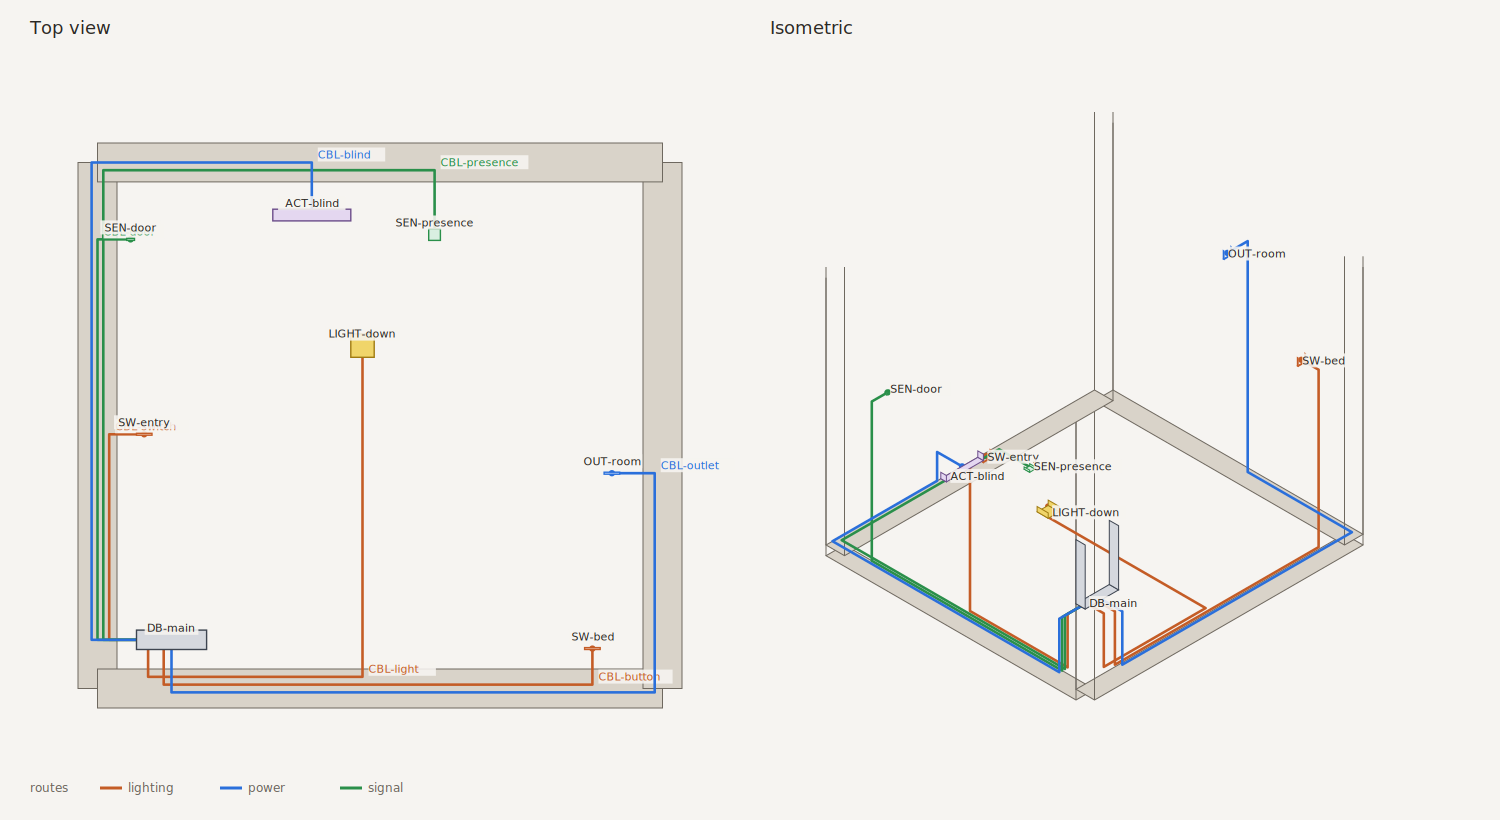
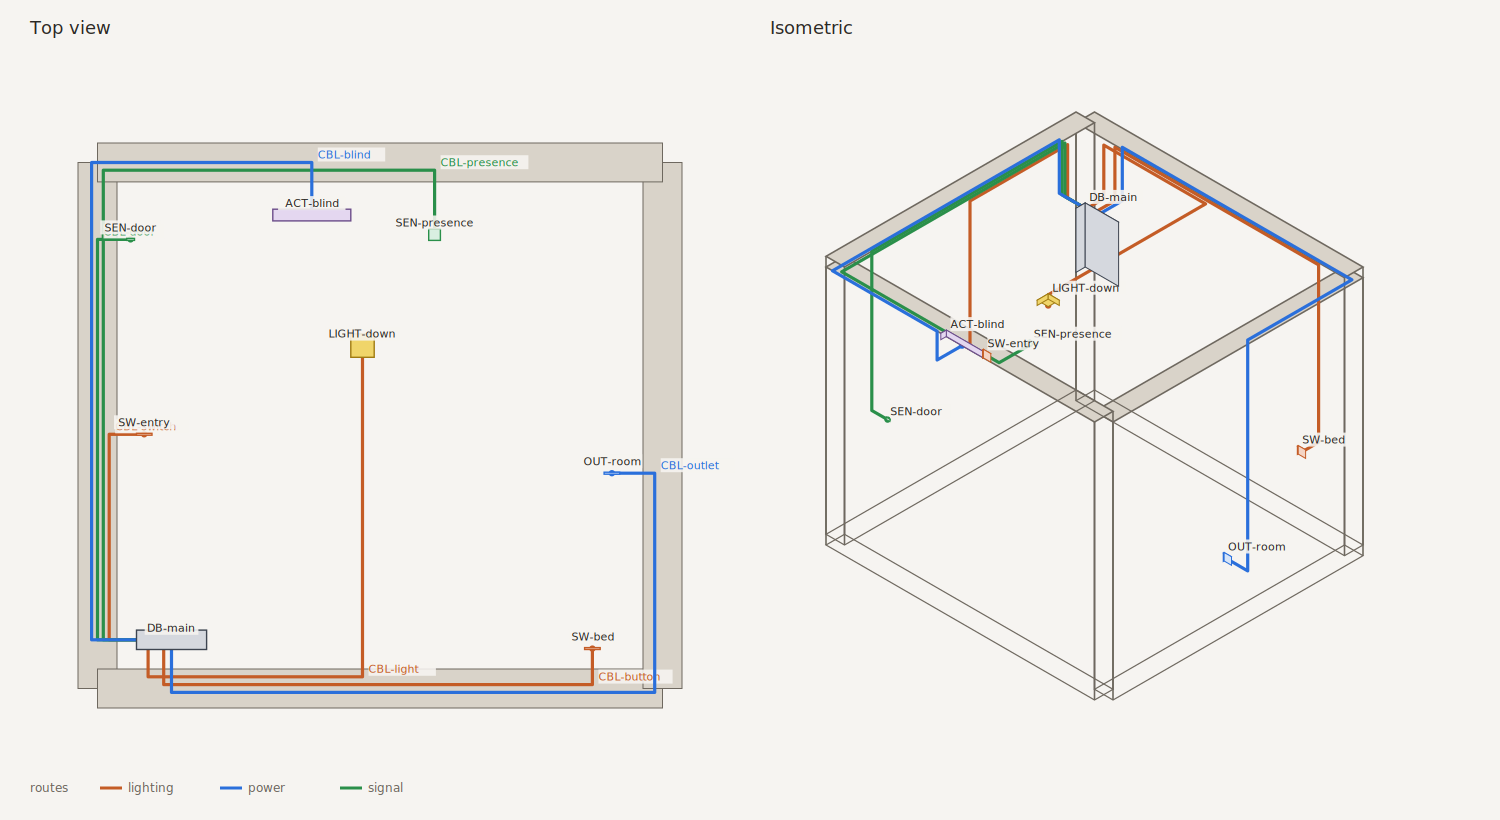
Draw the electrical isometric with height upward.
The projection subtracted z and then flipped the page, so wall heads and the 2.5 m cable runs sat on the floor. z is added, and each wall is extruded from the floor to its head.

diff --git a/tools/render_electrical.py b/tools/render_electrical.py
@@ -1,9 +1,11 @@
 #!/usr/bin/env python3
 """Draw devices and cable routes from a yaml-ifc electrical file.
 
-Two views in one PNG: the storey plan, and an isometric. Walls are the
-centreline band. A device is the box from Origin, Width, Depth, and
-Elevation. A cable Route is a polyline in that same frame, metres.
+Two views in one PNG: the storey plan, and an isometric. The plan draws
+each wall as a centreline band. The isometric extrudes that footprint
+from the floor to Height, with z up. A device is the box from Origin,
+Width, Depth, and Elevation. A cable Route is a polyline in that same
+frame, metres.
 Needs libcairo2 and tools/requirements.txt (cairosvg).
 """
 
@@ -89,7 +91,12 @@ def device_box(item):
 
 
 def iso(x, y, z):
-    return (x - y) * 0.8660254037844386, (x + y) * 0.5 - z
+    """Plan x to the right, plan y to the left, z up.
+
+    ``_fit`` treats the second axis as up and flips it into SVG. z is added
+    so a higher Elevation lands higher on the page.
+    """
+    return (x - y) * 0.8660254037844386, z - (x + y) * 0.5
 
 
 class Canvas:
@@ -213,8 +220,8 @@ def render_document(doc):
     panel_title(right, 34, "Isometric")
 
     def draw_walls(project, isometric):
-        for corners, wall_height, _wall_id in walls:
-            if not isometric:
+        if not isometric:
+            for corners, _wall_height, _wall_id in walls:
                 canvas.el(
                     "polygon",
                     points=_points(project(*corner) for corner in corners),
@@ -222,17 +229,21 @@ def render_document(doc):
                     stroke=WALL_EDGE,
                     **{"stroke-width": "1"},
                 )
-                continue
-            base = [project(*iso(x, y, 0)) for x, y in corners]
-            cap = [project(*iso(x, y, wall_height)) for x, y in corners]
+            return
+        # Wireframe extrusion: base at z=0, head at Height, vertical corners.
+        # Filled side faces cover the room and hide the routes.
+        ordered = sorted(walls, key=lambda row: sum(x + y for x, y in row[0]) / len(row[0]), reverse=True)
+        for corners, wall_height, _wall_id in ordered:
+            base = [project(*iso(x, y, 0.0)) for x, y in corners]
+            top = [project(*iso(x, y, wall_height)) for x, y in corners]
             canvas.el(
                 "polygon",
-                points=_points(cap),
-                fill=WALL,
+                points=_points(base),
+                fill="none",
                 stroke=WALL_EDGE,
-                **{"stroke-width": "1"},
+                **{"stroke-width": "1.2"},
             )
-            for start, end in zip(base, cap):
+            for start, end in zip(base, top):
                 canvas.el(
                     "line",
                     x1=f"{start[0]:.1f}",
@@ -240,8 +251,15 @@ def render_document(doc):
                     x2=f"{end[0]:.1f}",
                     y2=f"{end[1]:.1f}",
                     stroke=WALL_EDGE,
-                    **{"stroke-width": "1"},
+                    **{"stroke-width": "1.6"},
                 )
+            canvas.el(
+                "polygon",
+                points=_points(top),
+                fill=WALL,
+                stroke=WALL_EDGE,
+                **{"stroke-width": "1.6"},
+            )
 
     def draw_routes(project, isometric):
         for cable in cables:
@@ -255,7 +273,7 @@ def render_document(doc):
                 points=_points(mapped),
                 fill="none",
                 stroke=color,
-                **{"stroke-width": "2.6", "stroke-linejoin": "round", "stroke-linecap": "round"},
+                **{"stroke-width": "3.2", "stroke-linejoin": "round", "stroke-linecap": "round"},
             )
             end = mapped[-1]
             canvas.el(
@@ -272,7 +290,10 @@ def render_document(doc):
             canvas.tag(mark[0] + 6, mark[1] - 4, cable.get("id") or "", color, size=11)
 
     def draw_devices(project, isometric):
-        for key, item, (x, y, z, box_w, box_d, box_h) in devices:
+        ordered = devices
+        if isometric:
+            ordered = sorted(devices, key=lambda row: row[2][0] + row[2][1], reverse=True)
+        for key, item, (x, y, z, box_w, box_d, box_h) in ordered:
             fill = DEVICE_FILL[key]
             edge = DEVICE_EDGE[key]
             name = item.get("id") or ""
@@ -302,10 +323,11 @@ def render_document(doc):
                 for iy, py in enumerate(ys)
                 for iz, pz in enumerate(zs)
             }
+            # Top, the west face, and the south face: the three sides toward the viewer.
             faces = (
                 ((0, 0, 1), (1, 0, 1), (1, 1, 1), (0, 1, 1)),
                 ((0, 0, 0), (0, 1, 0), (0, 1, 1), (0, 0, 1)),
-                ((1, 0, 0), (1, 0, 1), (1, 1, 1), (1, 1, 0)),
+                ((0, 0, 0), (1, 0, 0), (1, 0, 1), (0, 0, 1)),
             )
             for face in faces:
                 canvas.el(
